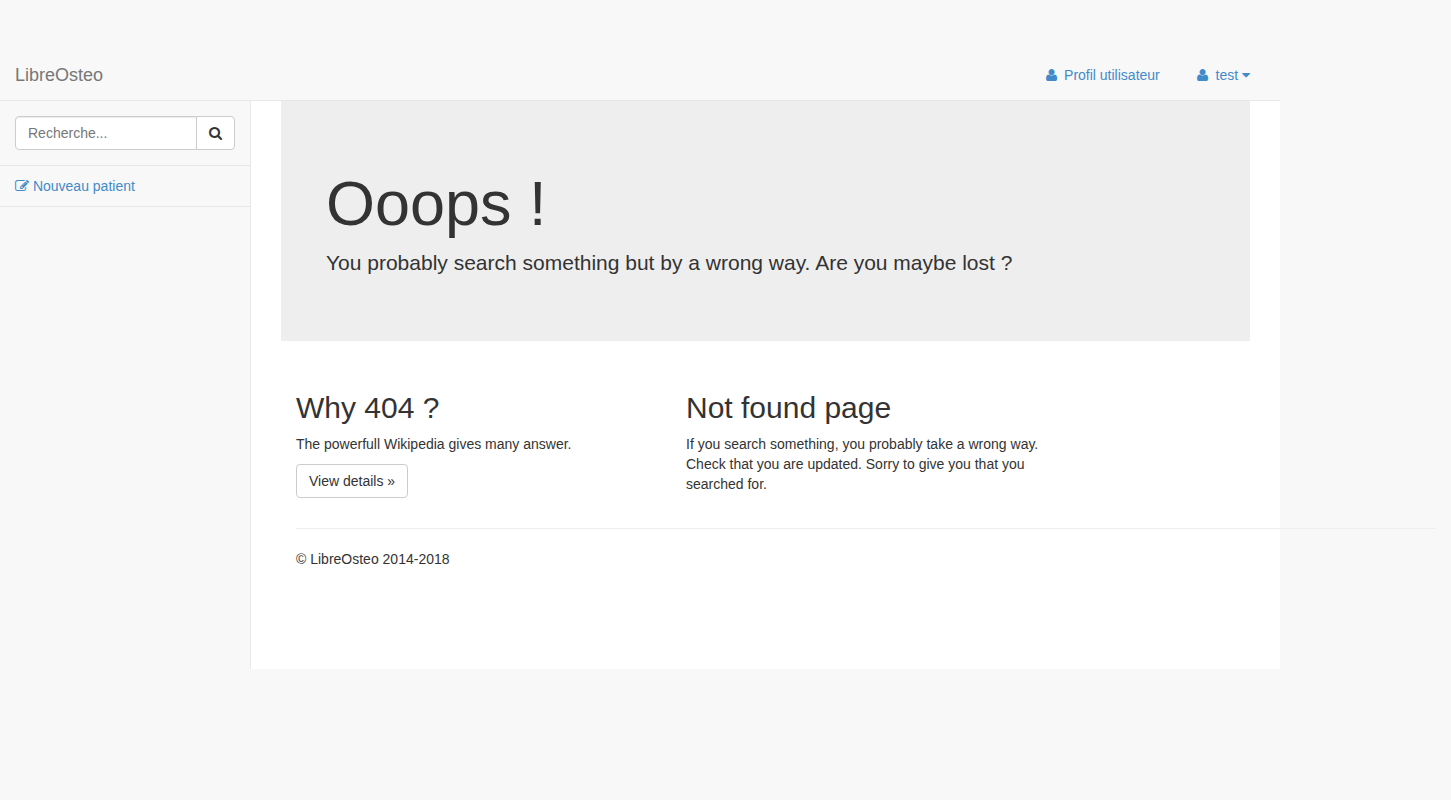
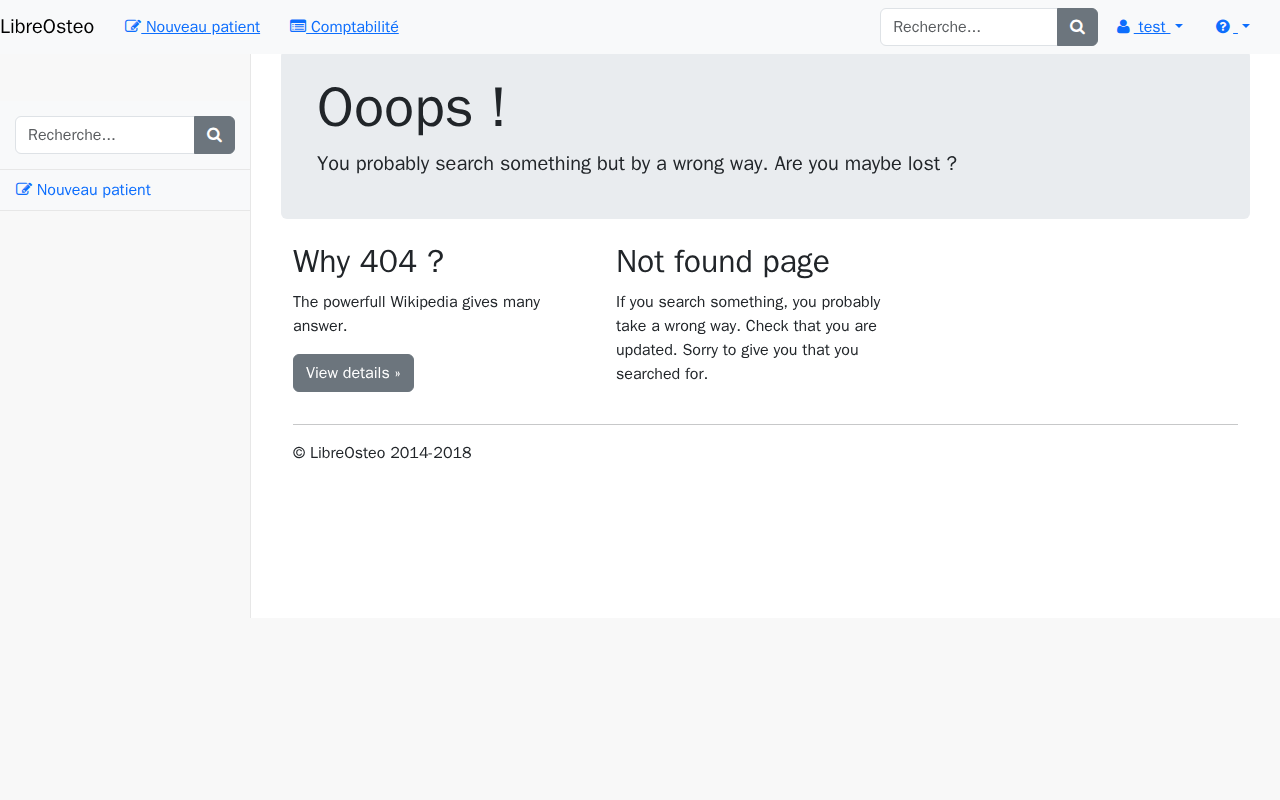
docs: clore D6g, les quatorze clauses constatees (D6g T16, commit 6/6)
Bootstrap 5.3.8, servi par yarn aux quatre documents qui chargeaient Bootstrap 3. Mesure de
sortie du lot : **3 occurrences residuelles**, toutes instruites ci-dessous, et **0 jeton
sans equivalent**.

`R-VIS-15` (page inexistante) et `R-VIS-16` (facture imprimee) recoivent leurs attendus et
leurs deux captures. Les seize fiches sont repassees une par une contre leur propre capture ;
trois ecarts en sortent, tous verses ici.

## Les quatorze clauses, telles que constatees

| # | Attendu | Constate |
|---|---|---|
| 1 | etat de depart | hors portee de T16 (T1) |
| 2 | 3 dependances, version exacte, `--frozen-lockfile` | **3** ; `npm:bootstrap@5.3.8`, aucun `^`/`~`/`x` ; `success Already up-to-date` |
| 3 | 0 gabarit, 3 x `No such file` | **3 x `No such file`** ; les 5 correspondances du grep sont des faux positifs, ecartes une par une |
| 4 | `rupture_bs5.py` rend 0 | **3**, aucune n'est une rupture — instruit ci-dessous |
| 5 | 6 sites d'etat Alpine | hors portee de T16 (T4) |
| 6 | 4 selecteurs, chacun rouge separement | **4/4** ; le quatrieme demontre par T16 commit 1/6 |
| 7 | 4 classes inertes tranchees | hors portee de T16 (T3) |
| 8 | `make check` vert | **969 passed**, couverture **94,82 %**, mypy **182 fichiers**, `ruff ignore = []`, 0 `noqa`/`type: ignore`/`skip` neuf |
| 9 | suite fonctionnelle verte, un lancement | **140 passed** en 8 min 31 s, avant-plan |
[…]

diff --git a/docs/recette.md b/docs/recette.md
@@ -4454,6 +4454,24 @@ et `tableau-de-bord-375.png`.
    **Évènements** occupe toute la largeur sous les tuiles, toujours lisible, sans texte
    coupé. Aucune barre de défilement horizontale.
 
+**⚠ Défaut relevé à la passe de clôture de D6g (2026-09-20), non corrigé — destinataire :
+lot correctif à ouvrir.** Sur les deux captures de référence, **les libellés des tuiles sont
+coupés au milieu d'un mot**. À 1 280 px : *Nouveaux* / *patients* sur deux lignes (coupure
+propre, entre deux mots) mais *Consultati* / *ons* sur deux lignes, **au milieu du mot**. À
+375 px, les deux le sont : *Nouvea* / *ux patients* et *Consult* / *ations*. Avant la
+bascule, les trois libellés tenaient chacun sur une seule ligne aux deux largeurs (capture
+d'avant versée par D6g T1, `3f72c2d`).
+
+Cause mesurée : le mini-graphe porte `.dashboard-sparkline { float: left; margin-top: 10%;
+margin-left: 40% }` (`libreosteo.css`), et il flotte dans la colonne `col-9` de l'en-tête de
+carte. Sous Bootstrap 3 cette colonne était plus large, le rembourrage de `.panel-heading`
+différant de celui de `.card-header` ; le flottant y laissait assez de place au libellé. Il
+ne lui en laisse plus assez. Ce n'est **pas** un défaut de la tuile elle-même : les trois
+tuiles restent côte à côte, l'icône ne recouvre rien, le chiffre reste lisible — tous les
+attendus de l'étape 1 tiennent. **Constater ce défaut n'est donc pas un motif de rejet de
+cette fiche** ; le corriger demande une décision sur la disposition interne de la tuile, qui
+n'appartient à aucune tâche de D6g.
+
 **Ne couvre pas** : l'atteignabilité de chaque sommet du mini-graphe au survol — prouvée par
 `test_chaque_sommet_du_mini_graphe_est_atteignable_au_survol` (`elementFromPoint`), pas par
 l'œil, le tracé étant trop fin pour s'évaluer sur une capture. Le rendu du panneau
@@ -4491,8 +4509,13 @@ et `cabinet-375.png`.
    l'annexe A — l'unique consommateur de `.radio.cancelinginvoice`, `libreosteo.css:663`,
    est cet écran). **Annulation de facture par avoir** : deux boutons radio empilés (*Avoir
    sur annulation*, actif ; *Facture corrective sur annulation*), même alignement case/
-   libellé. Le bouton **Mettre à jour**, bleu plein, ferme le formulaire. Aucune barre de
-   défilement horizontale.
+   libellé. **Précision ajoutée à la passe de clôture de D6g (2026-09-20)** : à 1 280 px
+   aussi, les deux libellés les plus longs se répartissent sur **deux lignes** — *Carte* /
+   *Bancaire* et *Facture corrective sur* / *annulation* —, la seconde ligne alignée sous la
+   première, jamais sous la case. C'est le comportement que l'étape 2 ne décrivait qu'à
+   375 px ; la colonne qui porte ces libellés a la même largeur aux deux échelles. Ce n'est
+   ni une régression ni un motif de rejet. Le bouton **Mettre à jour**, bleu plein, ferme le
+   formulaire. Aucune barre de défilement horizontale.
 2. Ramener la fenêtre à **375 px de large**.
    Attendu : le titre reste sur une seule ligne, entièrement visible. Les deux onglets
    restent atteignables au clic. **Cabinet** et **Facturation** restent chacun à côté de
@@ -4587,49 +4610,155 @@ et `dossier-patient-375.png`.
 
 - **Domaine** : Socle visuel
 - **Couverture auto** : non — aucun test n'assied un pixel (D6g, F1). Les tests fonctionnels
-  de cet écran prouvent les gestes, jamais la mise en page.
-- **État requis** : E1
+  de cet écran prouvent les gestes, jamais la mise en page. Une exception partielle, et une
+  seule : `test_pages_erreur.py::test_la_barre_laterale_de_la_page_404_ne_recouvre_pas_son_titre`
+  compare deux rectangles, donc l'étape 1 ci-dessous est **la seule** de tout ce domaine
+  dont un morceau soit tenu par une machine.
+- **État requis** : E1 — une session ouverte (`test` / `test`) et rien d'autre : cette page
+  ne dépend d'aucune donnée de cabinet ni de patient. La session est **obligatoire** :
+  `LoginRequiredMiddleware` redirige tout anonyme vers la page de connexion avant même de
+  résoudre l'URL, et l'écran n'existe donc pas dans un état déconnecté.
 
 **Prérequis** : un navigateur pouvant fixer la largeur de la fenêtre à 1 280 px puis à
 375 px. Les deux captures de référence sont `docs/recette/captures/d6g/page-inexistante-1280.png`
 et `page-inexistante-375.png`.
 
+**⚠ Cet écran a change de nature avec D6g T16, et c'est assumé** (AR2). Jusqu'à ce lot,
+`404.html` était un document autonome portant une **copie figée** du bandeau du thème
+SB Admin : il n'y avait ni « Nouveau patient », ni « Comptabilité », ni champ de recherche,
+ni menu d'aide dans ce bandeau, et aucun de ses menus déroulants ne s'ouvrait. Depuis, la
+page hérite de `base.html` : **le bandeau est celui de tous les autres écrans**, et il
+fonctionne. Comparer la capture d'avant à celle d'après sur ce point ne relève donc pas
+d'une régression.
+
 **Étapes**
 
-1. Ouvrir une URL inexistante, connecté, fenêtre à **1 280 px de large**.
-   Attendu : <écrit par T16>
+1. Ouvrir une URL inexistante (par exemple `/cette-route-n-existe-pas`), connecté, fenêtre à
+   **1 280 px de large**.
+   Attendu : le bandeau du haut porte, de gauche à droite, **LibreOsteo**, *Nouveau patient*,
+   *Comptabilité*, puis — repoussés à droite par la marge automatique du formulaire — le
+   champ *Recherche…* avec son bouton loupe, le menu **test** et le menu **?**. C'est
+   exactement le bandeau de `R-VIS-03`, au pixel près.
+   Sous lui, à gauche, une **barre latérale large de 250 px** sur fond gris très clair, qui
+   porte un champ *Recherche…* avec son bouton loupe, puis l'entrée *Nouveau patient* —
+   les deux **empilés l'un sous l'autre**, jamais côte à côte, et séparés par un filet
+   horizontal.
+   La zone de contenu commence à **250 px du bord gauche**, sur fond blanc, avec un filet
+   vertical à sa gauche : **la barre latérale ne recouvre aucune partie du titre**
+   *Ooops !*, qui est entièrement visible.
+   Le titre *Ooops !* et sa phrase sont dans un **bloc gris arrondi**, la phrase tenant sur
+   une seule ligne. Dessous, deux colonnes **côte à côte**, *Why 404 ?* et
+   *Not found page*, chacune occupant environ un tiers de la largeur ; sous la première, un
+   bouton **gris plein** *View details »*. Puis un filet horizontal et
+   *© LibreOsteo 2014-2018*.
+   **Aucune barre de défilement horizontale** : la page tient dans 1 280 px.
 2. Ramener la fenêtre à **375 px de large**.
-   Attendu : <écrit par T16>
+   Attendu : le bandeau du haut se réduit à **LibreOsteo** et au bouton hamburger
+   (`navbar-expand-md`, seuil 768 px) ; les deux entrées, le champ de recherche et les deux
+   menus ne sont atteignables qu'en l'ouvrant — geste identique à `R-VIS-03`, non rejoué ici.
+   La barre latérale **revient dans le flux**, en pleine largeur, **au-dessus** de la zone de
+   contenu : le champ *Recherche…* d'abord, l'entrée *Nouveau patient* ensuite. La zone de
+   contenu ne porte plus le décalage de 250 px.
+   Le bloc gris arrondi reste, sa phrase se répartissant sur trois lignes ; les deux colonnes
+   **s'empilent**, *Why 404 ?* et son bouton d'abord, *Not found page* ensuite.
+   **Aucune barre de défilement horizontale.**
 
-**Ne couvre pas** : <écrit par T16>
+**Les cinq écarts visibles avec la capture d'avant, chiffrés** (au-delà du bandeau, traité
+plus haut) :
+
+1. **Le débordement horizontal a disparu.** La capture d'avant, prise en pleine page pour
+   une fenêtre de 1 280 px, fait **1 451 px de large** : 171 px de contenu sortaient de la
+   fenêtre. Celle d'après fait **1 280 px**. Ce n'est pas un effet recherché du lot, c'est
+   une conséquence de la sortie du thème SB Admin ; on la constate, on ne la revendique pas.
+2. **Le bouton *View details »* passe de blanc bordé à gris plein.** `btn-default` devient
+   `btn-secondary` (annexe A du plan D6g) : en Bootstrap 3 ce bouton était blanc à bordure
+   grise, en Bootstrap 5 le bouton secondaire est gris plein. Le changement est le même sur
+   tous les écrans du lot, il n'est pas propre à celui-ci.
+3. **Le bloc *Ooops !* devient arrondi et prend une marge.** `jumbotron` disparaît sans
+   équivalent en Bootstrap 5 ; son style est repris par des utilitaires
+   (`p-4 mb-4 rounded bg-body-secondary`). Avant, le bloc touchait les bords de la zone de
+   contenu et n'avait pas d'angles arrondis.
+4. **Le titre *Ooops !* rétrécit un peu.** Bootstrap 3 le rendait à 63 px dans un
+   `.jumbotron` ; `display-4` le rend à 56 px au-delà de 1 200 px de fenêtre, et
+   proportionnellement plus petit en dessous.
+5. **Les entrées de la barre latérale gagnent un rembourrage.** Elles le tenaient de
+   `.nav > li > a` en Bootstrap 3 (10 px / 15 px) ; elles le tiennent de `nav-link` en
+   Bootstrap 5 (8 px / 16 px).
+
+**Ne couvre pas** :
+
+- les deux menus déroulants **ouverts** du bandeau : `R-VIS-03` les couvre aux deux largeurs,
+  et ils sont rigoureusement les mêmes ici ;
+- le champ de recherche **de la barre latérale**, qui reste **inerte** — aucun formulaire,
+  aucun `name` : c'est l'étape 5 de `R-ERR-01`, ce n'est pas une régression du lot, et la
+  capture ne peut pas le montrer ;
+- l'écran servi à un utilisateur **non connecté** : il n'existe pas, cf. « État requis » ;
+- les largeurs intermédiaires, notamment le franchissement du seuil de 768 px : les deux
+  captures encadrent ce seuil, elles ne le montrent pas.
 
 ### R-VIS-16 — Socle visuel : facture imprimée
 
 - **Domaine** : Socle visuel
 - **Couverture auto** : non — aucun test n'assied un pixel (D6g, F1). Les tests fonctionnels
   de cet écran prouvent les gestes, jamais la mise en page.
-- **État requis** : E2
+- **État requis** : E2 — un patient portant une consultation **facturée et réglée**, donc
+  une facture imprimable depuis la comptabilité. `R-CON-03` décrit comment l'obtenir et
+  `R-FAC-01` ce que la facture doit porter ; cette fiche-ci ne recette que l'**apparence**
+  du document imprimé.
 
 **Prérequis** : un navigateur pouvant fixer la largeur de la fenêtre à 1 280 px puis à
 375 px. Les deux captures de référence sont `docs/recette/captures/d6g/facture-1280.png`
 et `facture-375.png`.
 
-**⚠ État d'avant, antérieur au lot — largeur fixe à 800 px, et ce n'est pas un défaut de
-socle.** La capture de référence `facture-375.png` fait **800 px de large**, exactement
-comme `facture-1280.png` : ce document ne charge pas Bootstrap (F3) et ne répond à aucune
-largeur de fenêtre — sa mise en page vient de `css/invoice-style.css` seul. Il déborde donc
-à 375 px, et **il débordait déjà avant le lot**, mesuré le 2026-09-19. La tâche **T16** ne
-doit ni le corriger ni le compter comme une régression : l'attendu de cette fiche est
-justement que le lot n'ait pas touché ce document.
+**⚠ Ce document ne charge pas Bootstrap, et l'attendu de cette fiche est que le lot ne l'ait
+pas touché** (F3). Sa mise en page vient de `css/invoice-style.css` seul.
+
+**⚠ Largeur fixe, et ce n'est pas un défaut de socle — mais le chiffre publié ici était
+faux, et il est corrigé sur mesure.** Cette fiche affirmait que `facture-375.png` fait
+« 800 px de large, exactement comme `facture-1280.png` ». **Mesure du 2026-09-20 :
+`facture-1280.png` fait 1 280 × 851 px et `facture-375.png` 800 × 851 px.** Les deux ne font
+donc pas la même largeur : à 1 280 px le document tient dans la fenêtre, à 375 px il déborde
+jusqu'à 800 px, soit **425 px hors fenêtre**. Il débordait déjà avant le lot, mesuré le
+2026-09-19. T16 ne le corrige pas et ne le compte pas comme une régression.
+
+**⚠ Ces deux captures portent une date, et elle est celle du jour où on les prend.** Le
+document imprime « À <ville>, le <date du jour> ». Deux captures prises à deux dates
+différentes ne peuvent donc pas être identiques à l'octet, sans qu'aucune mise en page n'ait
+bougé : constaté à la clôture de D6g, les captures ayant été reprises après minuit. Comparer
+la **mise en page**, jamais les octets.
 
 **Étapes**
 
-1. Depuis la comptabilité, imprimer une facture (nouvel onglet), fenêtre à **1 280 px de large**.
-   Attendu : <écrit par T16>
+1. Depuis la comptabilité, ouvrir le menu *Actions* d'une facture réglée et cliquer
+   *Imprimer* : le document s'ouvre dans un nouvel onglet. Fenêtre à **1 280 px de large**.
+   Attendu : un document **en police à empattements**, noir sur blanc, sans aucun élément
+   de Bootstrap — ni bandeau, ni bouton, ni carte. En haut à gauche, le nom du cabinet en
+   gros, puis son adresse sur deux lignes, un numéro de téléphone précédé d'une icône de
+   combiné, et la ligne *SIRET : …* ; en haut à droite, sur deux lignes, la qualité du
+   praticien (*Ostéopathe DO*) et *Adeli : …*. Un filet horizontal sépare cet en-tête du
+   reste.
+   Dessous, à gauche *À <ville>, le <date du jour>*, à droite le nom du patient, **sur la
+   même ligne**. Puis, en gras, *Facture <numéro>*. Puis le libellé de la prestation et la
+   ligne de règlement. Puis un **tableau à deux cellules bordées, côte à côte** :
+   *HONORAIRES* et le montant en euros, le tableau étant placé dans la moitié droite de la
+   page. En bas, le pied de page libre du cabinet.
+   **Aucune barre de défilement horizontale** : le document tient dans 1 280 px.
 2. Ramener la fenêtre à **375 px de large**.
-   Attendu : <écrit par T16>
+   Attendu : **rien ne change dans la mise en page** — aucun élément ne se déplace, aucune
+   colonne ne s'empile, les tailles de police sont identiques. Le document ne répond pas à la
+   largeur de la fenêtre. Il faut **défiler latéralement** pour lire la colonne de droite de
+   l'en-tête (*Ostéopathe DO*, *Adeli*) et le nom du patient. C'est l'état d'avant le lot,
+   inchangé.
 
-**Ne couvre pas** : <écrit par T16>
+**Ne couvre pas** :
+
+- le rendu **à l'impression** proprement dit (aperçu avant impression, PDF) : ces captures
+  sont des rendus à l'écran ;
+- une facture **à plusieurs lignes**, une facture **annulée**, une facture **non réglée** :
+  la capture de référence montre une facture réglée à une seule ligne d'honoraires ;
+- un cabinet dont le pied de page ou le logo seraient renseignés autrement : ces zones sont
+  du texte libre de `R-CAB-*`, et leur contenu n'appartient pas à cette fiche ;
+- les largeurs intermédiaires : le document ne répondant à aucune, il n'y a rien à y voir.
 
 ## Chapitre 4 — Tests sans geste de recette
 
